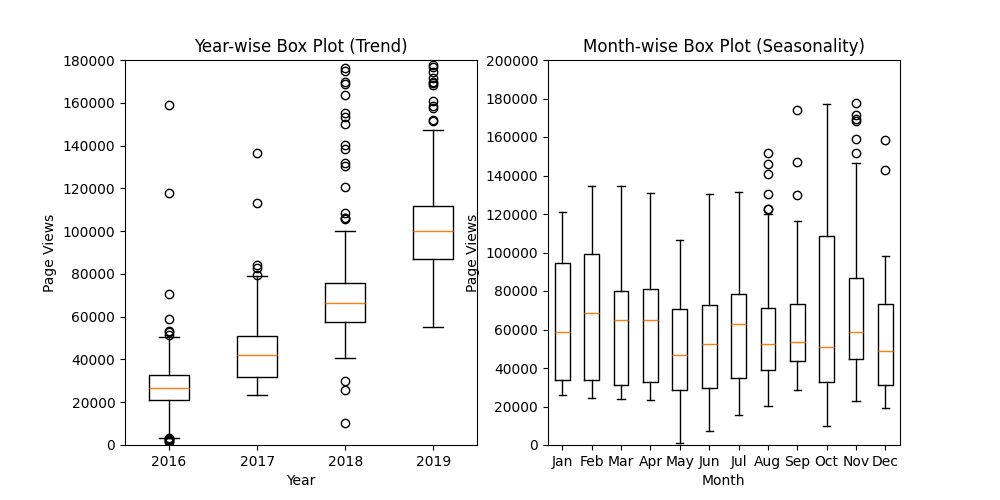
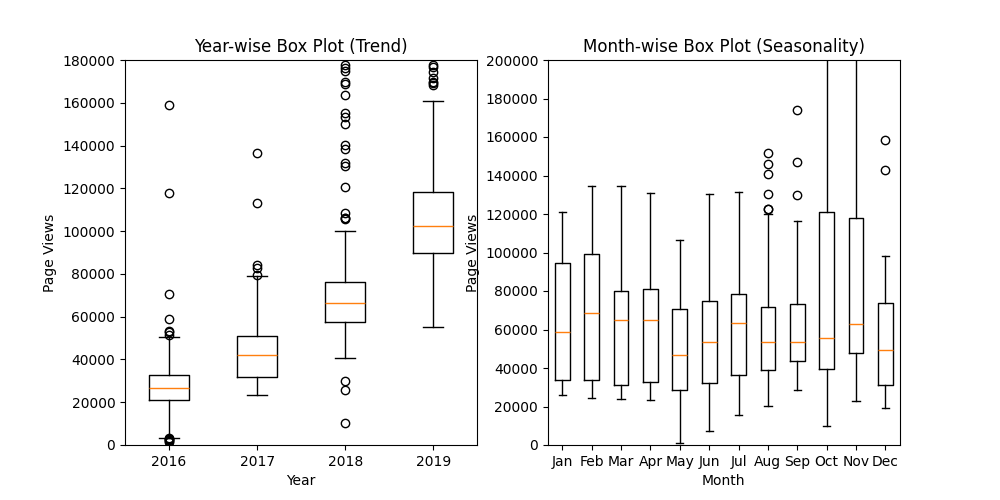
29/12/25 update

diff --git a/time_series_visualizer.py b/time_series_visualizer.py
@@ -27,8 +27,8 @@ df = df.set_index('date')
 ds_sorted = df.sort_values(by='value')
 cutoff_1 = ds_sorted.quantile(0.025)
 cutoff_2 = ds_sorted.quantile(0.975)
-df = df[(df['value'] < cutoff_2['value'])
-                       | (df['value'] <= cutoff_1['value'])
+df = df[(df['value'] >= cutoff_1['value'])
+                       | (df['value'] <= cutoff_2['value'])
                       ]
 # df['date'] = pd.to_datetime(df.index)
 df.reset_index(inplace=True)
@@ -75,8 +75,8 @@ def draw_bar_plot():
     month =  ['January', 'February', 'March', 'April', 'May', 'June', 'July', 'August','September', 'October', 'November', 'Desember']
     transpose_data.columns = month
 
-    fig = plt.figure(figsize=(8, 7))
-    transpose_data.plot(kind = "bar", width = 0.5)
+    fig, axx = plt.subplots(figsize=(8, 7))
+    transpose_data.plot(kind = "bar",ax = axx,  width = 0.5)
     plt.title("Average page views each month")
     plt.xlabel("Years")
     plt.ylabel("Average Page Views")
@@ -84,8 +84,6 @@ def draw_bar_plot():
     plt.legend(title = "Month")
     plt.tight_layout()
     plt.show()
-
-
 
 
 

diff --git a/main.py b/main.py
@@ -7,5 +7,5 @@ time_series_visualizer.draw_line_plot()
 time_series_visualizer.draw_bar_plot()
 time_series_visualizer.draw_box_plot()
 
-# Run unit tests automatically
+# Run unit tests automatical
 main(module='test_module', exit=False)
